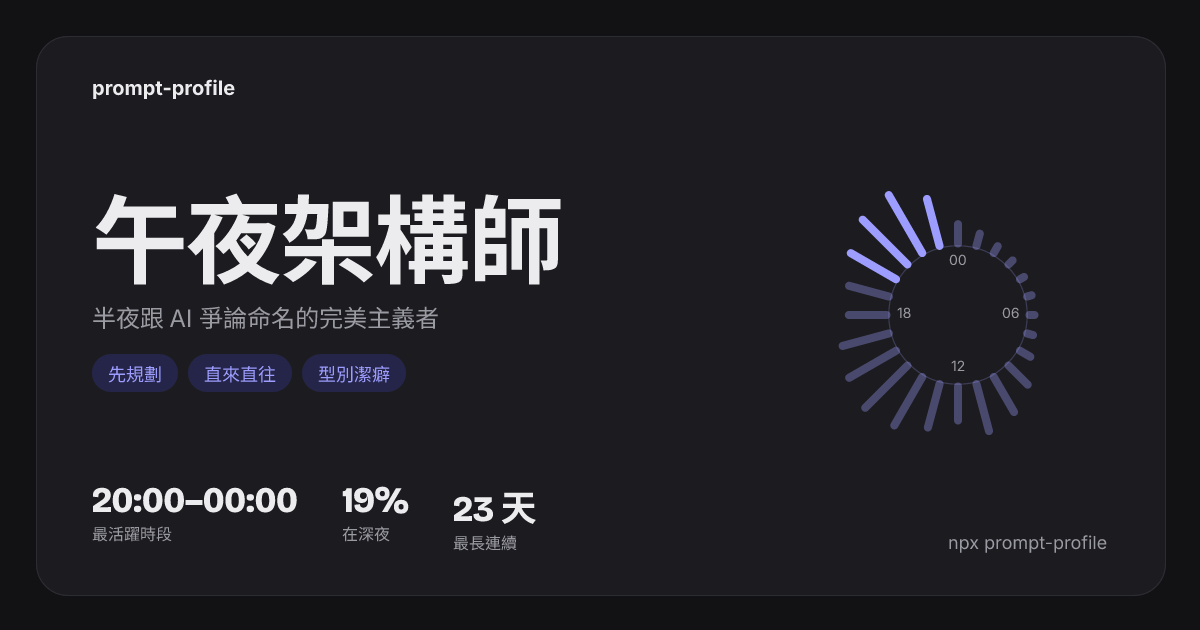
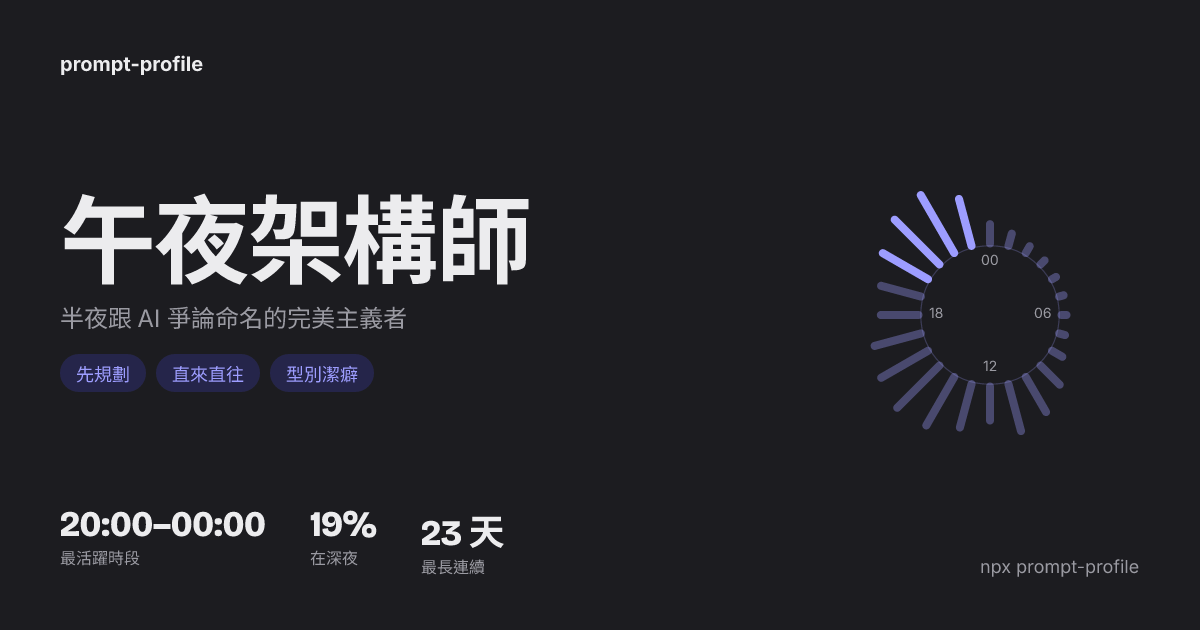
feat(report): draw the classic card edge to edge like the looks

diff --git a/src/report/card.ts b/src/report/card.ts
@@ -80,8 +80,8 @@ const cardMetrics = (profile: Profile, lang: Language, n: number): Array<[string
 const CARD_CLOCK = 300
 
 /**
- * The classic card: the classic report's hero on its page, in its dark colors, with the same
- * hour clock. The hour labels are text nodes over the drawing (SVG images get no fonts).
+ * The classic card: the classic report's hero edge to edge, like the looks, in its dark colors,
+ * with the same hour clock. The hour labels are text nodes over the drawing (SVG images get no fonts).
  */
 const classicTree = (profile: Profile, hide: RenderOptions["cardHide"], lang: Language): Node => {
   const t = MESSAGES[lang]
@@ -90,7 +90,7 @@ const classicTree = (profile: Profile, hide: RenderOptions["cardHide"], lang: La
   const name = clip(c.archetype.name, 56)
   const showGraphic = !hide.includes("graphic")
   const clock = clockSvg(profile.stats.hourHistogram, k.accent)
-  const left = 1200 - 36 - 56 - CARD_CLOCK
+  const left = CARD_WIDTH - 60 - CARD_CLOCK
   const top = (CARD_HEIGHT - CARD_CLOCK) / 2
   const scale = CARD_CLOCK / clock.width
   const ticks = [0, 6, 12, 18].map((hour) => {
@@ -118,21 +118,11 @@ const classicTree = (profile: Profile, hide: RenderOptions["cardHide"], lang: La
       boxSizing: "border-box",
       display: "flex",
       position: "relative",
-      backgroundColor: k.bg,
+      backgroundColor: k.card,
       color: k.fg,
       fontFamily: "Inter",
     },
     [
-      h("div", {
-        position: "absolute",
-        left: 36,
-        top: 36,
-        width: CARD_WIDTH - 72,
-        height: CARD_HEIGHT - 72,
-        backgroundColor: k.card,
-        border: `1.5px solid ${k.border}`,
-        borderRadius: 32,
-      }),
       ...(showGraphic
         ? [
             {
@@ -155,11 +145,11 @@ const classicTree = (profile: Profile, hide: RenderOptions["cardHide"], lang: La
           justifyContent: "space-between",
           // Absolute like the layers below it, so it is painted on top of them.
           position: "absolute",
-          left: 36,
-          top: 36,
-          width: CARD_WIDTH - 72,
-          height: CARD_HEIGHT - 72,
-          padding: "40px 56px",
+          left: 0,
+          top: 0,
+          width: CARD_WIDTH,
+          height: CARD_HEIGHT,
+          padding: "52px 60px",
           boxSizing: "border-box",
         },
         [

diff --git a/test/report/report.test.ts b/test/report/report.test.ts
@@ -98,7 +98,9 @@ describe("card", () => {
       const profile = yield* sample()
       const tree = JSON.stringify(cardTree(profile))
       const { bg, card, fg, accent } = CLASSIC_TOKENS.dark
-      for (const color of [bg, card, fg]) expect(tree).toContain(color)
+      // Full bleed like the looks: the hero's color edge to edge, no page around it
+      expect(cardTree(profile).props.style).toMatchObject({ backgroundColor: card, color: fg })
+      expect(tree).not.toContain(bg)
       expect(tree).toContain(svgDataUrl(clockSvg(profile.stats.hourHistogram, accent).svg))
     }),
   )
